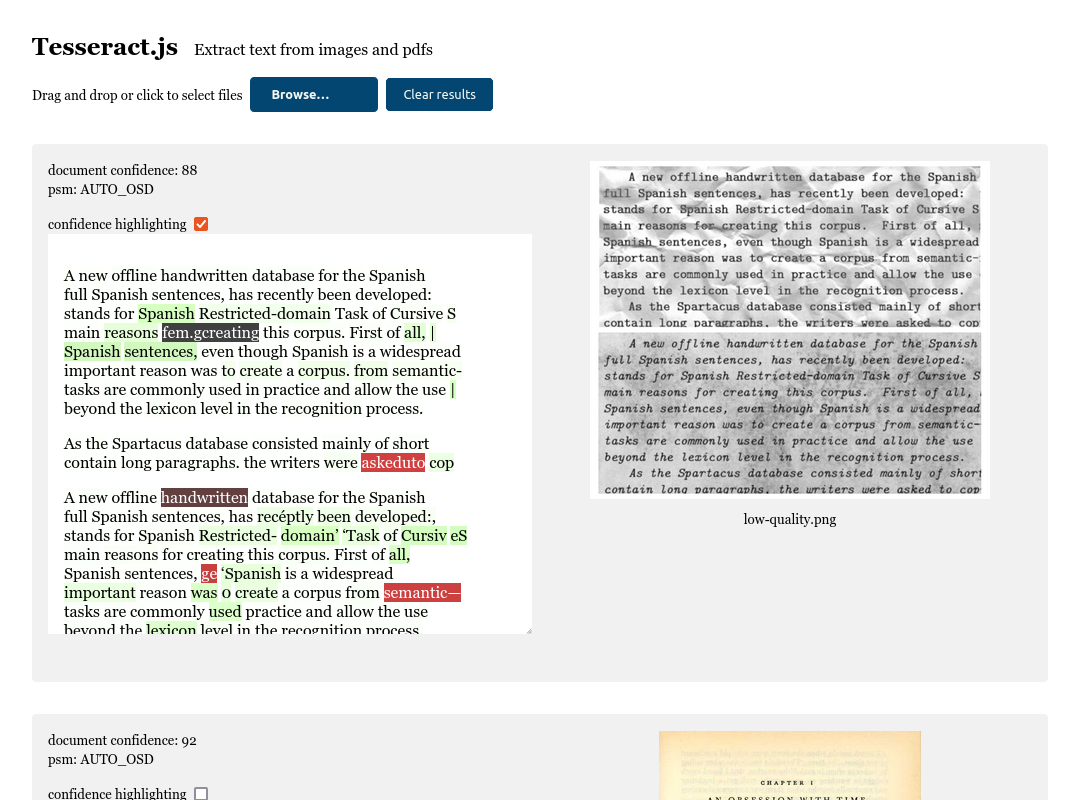
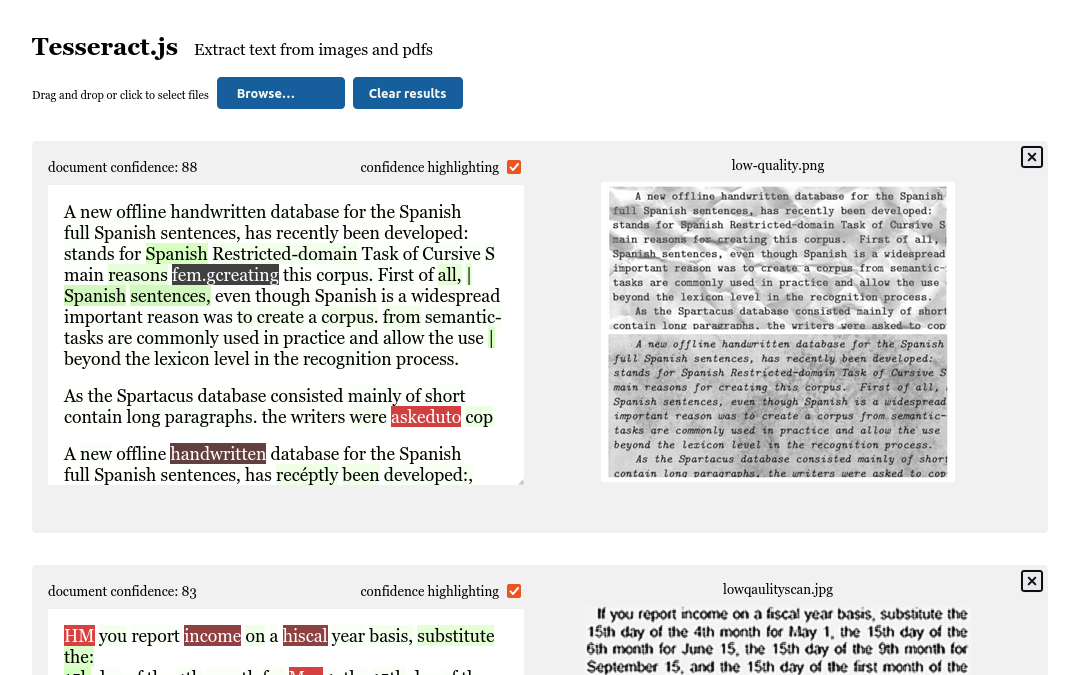
style tweaks

diff --git a/src/components/ResultBlock.svelte b/src/components/ResultBlock.svelte
@@ -91,8 +91,7 @@
     border: 0;
     background-color: transparent;
     cursor: pointer;
-    width: fit-content;
-    max-width: var(--mysize);
+    max-height: var(--mysize);
   }
 
   .horiz .woo {
@@ -120,10 +119,8 @@
 
   .horiz .img {
     display: block;
-    /* width: var(--mysize); */
     max-width: 100%;
-    /* max-height: var(--mysize); */
-    height: auto;
+    max-height: var(--mysize);
   }
 
   .btn {

diff --git a/src/hocr.scss b/src/hocr.scss
@@ -30,8 +30,8 @@
 
 .ocr_line {
   display: block;
-  // display: flex;
-  // justify-content: space-between;
-  // gap: 0.4rem;
+}
 
+.ocr_par {
+  margin: 0 0 1rem 0;
 }
